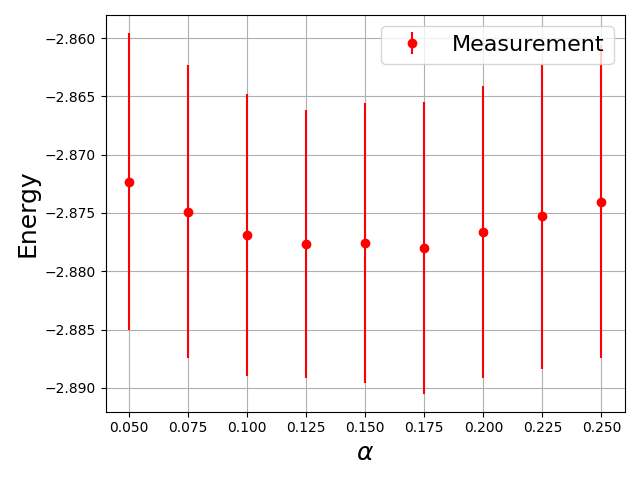
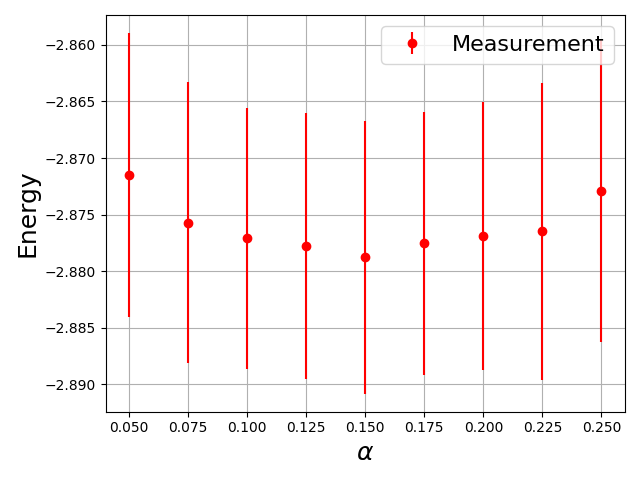
Results data, now a nice plot and then presentation, maybe some more detail on main.py in readme

diff --git a/main.py b/main.py
@@ -6,16 +6,19 @@ from VQMC import VQMC
 from Optimizer import Optimizer
 
 ##### helium
-#model = VQMC()
-#model.alpha_energy_dependence(stop=0.25, steps=9, start=0.05)
-#optimizer = Optimizer(model)
-#optimizer.find_optimum()
+model = VQMC()
+model.alpha_energy_dependence(stop=0.25, steps=9, start=0.05)
+optimizer = Optimizer(model)
+optimizer.find_optimum()
 
 ##### harmonic oscillator
-model = VQMC(model='LHO',init_alpha=0.3)
-#model.alpha_energy_dependence(0.6,10)
-#model.get_energy_mean()
-#model.plot_average_local_energies()
-#print(model.expected_energy)
-optimizer = Optimizer(model,gradient_method="2nd derivative")
-optimizer.find_optimum()
+#model = VQMC(model='LHO', init_alpha=0.3)
+#model.alpha_energy_dependence(stop=0.7, steps=9, start=0.3)
+#optimizer = Optimizer(model, gradient_method="2nd derivative")
+#optimizer.find_optimum()
+
+##### hydrogen
+#model = VQMC(model='Hydrogen', init_alpha=0.8)
+#model.alpha_energy_dependence(stop=1.2, steps=9, start=0.8)
+#optimizer = Optimizer(model, gradient_method="2nd derivative")
+#optimizer.find_optimum()

diff --git a/Optimizer.py b/Optimizer.py
@@ -9,7 +9,7 @@ class Optimizer:
     """
     Optimization class for the Variational Quantum Markov Chain.
     """
-    def __init__(self, model, steplength=0.3, max_steps=50, criterion=1e-6, gradient_method = "1st derivative"):
+    def __init__(self, model, steplength=0.3, max_steps=50, criterion=1e-6, gradient_method="1st derivative"):
         """
             Constructor for the Optimization class for the Variational Quantum Markov Chain.
 

diff --git a/VQMC.py b/VQMC.py
@@ -14,7 +14,7 @@ class VQMC:
     Variational Quantum Markov Chain class.
     """
 
-    def __init__(self, num_walkers=40, max_step_length=0.6, num_steps_equilibrate=4000, MC_num_steps=10000,
+    def __init__(self, num_walkers=200, max_step_length=0.6, num_steps_equilibrate=4000, MC_num_steps=10000,
                  model="Helium", init_alpha=None):
         """
             Constructor of Variational Quantum Markov Chain class.

diff --git a/Hydrogen.py b/Hydrogen.py
@@ -12,7 +12,7 @@ class Hydrogen:
         """
         Constructor of Model class for Hydrogen variational ansatz.
         """
-        self.init_alpha = 1.3
+        self.init_alpha = 1.2
         self.dimension = 3
 
     def trial(self, parameters, alpha):
